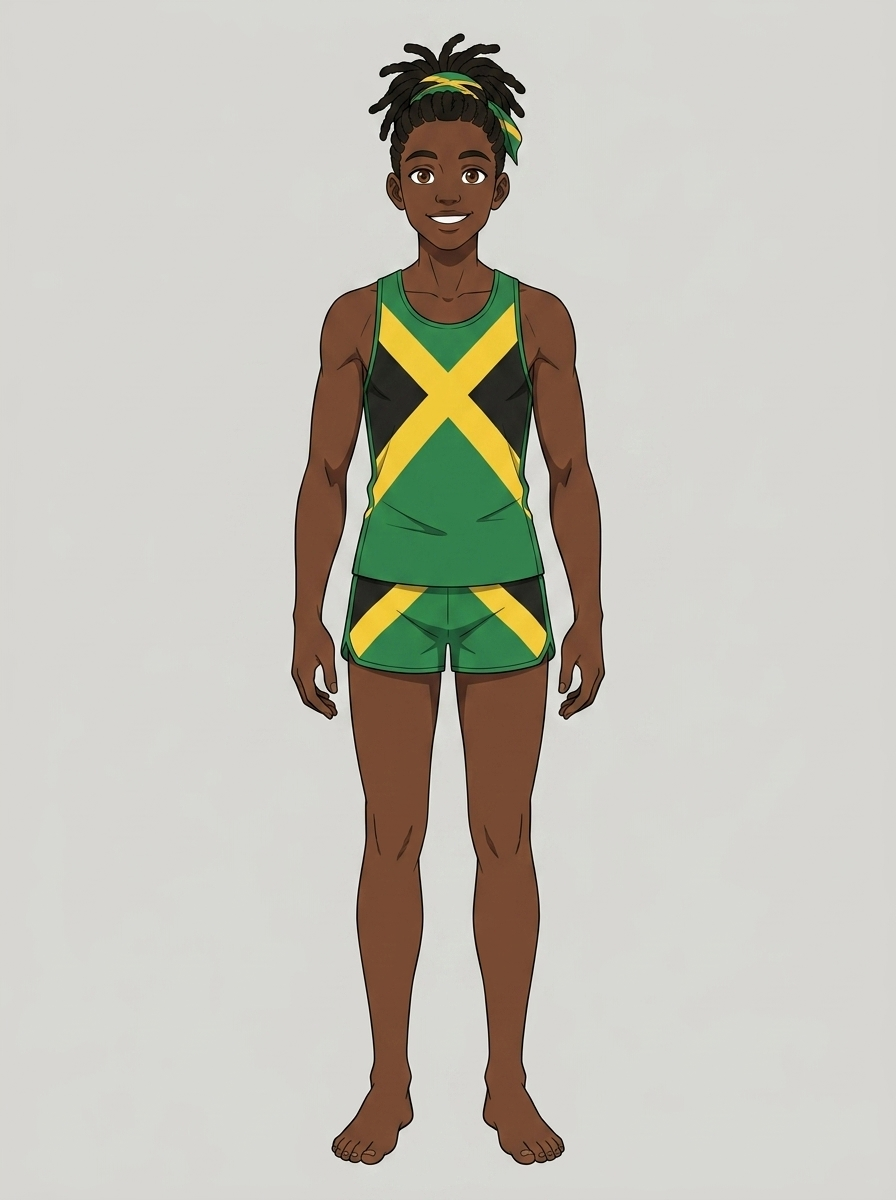
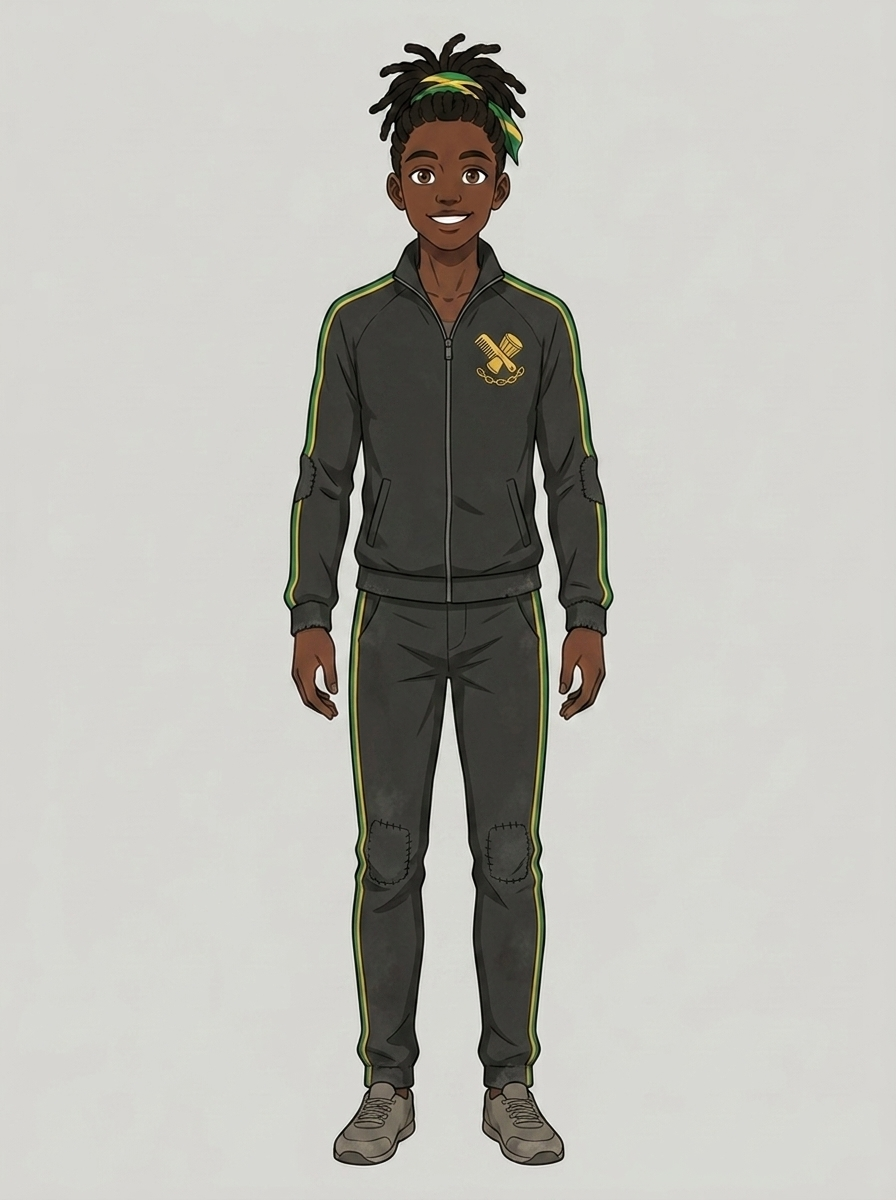
Kemar: retire the flag singlet for a Freewater House tracksuit
His racing kit was a literal Jamaican flag saltire - the only character in
the show dressed as a flag, next to a cast that otherwise wears believable
athletic wear with a small House crest. It read as costume, not uniform.

Canon already had the answer: the visdev briefs define the Freewater sigil
as a golden comb crossed over a drum above a broken chain, in green/gold/
black. The palette was never the problem; the flag print was.

New kit is a charcoal-black House tracksuit in the same grammar as Ren's
House Kurose blacks. Heritage carries as thin green-and-gold piping and the
sigil at the chest, plus his loc wrap - shown, never stated, the same
discipline used for Kai.

The wear is deliberate. Freewater has no Pillar and no institution behind
it, so their kit is mended and handed down; Ren's is issued and immaculate.
Standing side by side, that contrast is the recognition argument made
without a line of dialogue.

Verifier fix: a character can now be retired more than once. Kemar has two
retired elements and retired_element_id only held one, which correctly
failed the gate on kemar-02.png rather than passing silently.

diff --git a/docs/assets/undertow/qc/verify_assets.py b/docs/assets/undertow/qc/verify_assets.py
@@ -64,9 +64,13 @@ def verify(report=False):
     # Retired elements stay valid: an asset generated before a character's element
     # was rebuilt still traces to approved identity. Retiring an element does not
     # retroactively orphan the art it produced.
+    # A character can be rebuilt more than once, so retirements accumulate.
+    # Accept both the single field and the list form.
     valid_elements = {c["element_id"] for c in chars.values()}
-    valid_elements |= {c["retired_element_id"] for c in chars.values()
-                       if c.get("retired_element_id")}
+    for c in chars.values():
+        if c.get("retired_element_id"):
+            valid_elements.add(c["retired_element_id"])
+        valid_elements |= set(c.get("retired_element_ids", []))
 
     # Founding plates AND baseline references are identity sources, not derived art.
     plate_by_char = {k: v["approved_plate"].split("/")[-1] for k, v in chars.items()}
@@ -155,8 +159,10 @@ def verify(report=False):
         print("  CHARACTER ELEMENTS (identity locks):")
         for cid, c in chars.items():
             print(f"    {c['full_name']:<22} {c['element_id']}  {c['element_name']}")
-            if c.get("retired_element_id"):
-                print(f"    {'':<22} {c['retired_element_id']}  (retired — still valid for existing art)")
+            retired = ([c["retired_element_id"]] if c.get("retired_element_id") else []) \
+                      + list(c.get("retired_element_ids", []))
+            for r in retired:
+                print(f"    {'':<22} {r}  (retired — still valid for existing art)")
         print()
 
     for w in warnings:

diff --git a/docs/UNDERTOW-VISDEV-BRIEFS.md b/docs/UNDERTOW-VISDEV-BRIEFS.md
@@ -135,7 +135,17 @@ Deliverable per character: front/side/back turnaround, 4 expressions, surface ki
 - **Face/hair:** dark brown skin, short locs tied back for racing with a green-gold-black
   wrap; huge easy grin that drops, in serious moments, into a stillness that surprises
   people; eyes warm brown (awakened shift: river-gold, in water only).
-- **Wardrobe:** surface kit in Jamaica green/gold/black; deep kit: Freewater second-skin
+- **Wardrobe:** charcoal-black Freewater House tracksuit — thin green-and-gold piping
+  down sleeves and legs, small gold House sigil at the left chest, visibly older and
+  hand-repaired. Deep kit: Freewater second-skin with the same sigil.
+  **No flag, no saltire, no block colour panels.** The Jamaican-flag racing singlet was
+  retired 2026-07-31: it read as costume beside a cast that otherwise wears believable
+  athletic wear with a small House crest. Heritage now shows through palette, sigil and
+  his loc wrap — the same "shown, never stated" discipline used for Kai.
+  The mending is the point. Freewater has no Pillar and no institution behind it, so the
+  kit is handed down rather than issued; set beside Ren's immaculate new House Kurose
+  blacks, the contrast *is* the recognition argument, made without a line of dialogue.
+- **Retired wardrobe:** surface kit in Jamaica green/gold/black flag print
   woven green-gold-black with the House sigil (golden comb crossed over a drum, above a
   broken chain) between the shoulder blades. Shell-and-bead wrist cord from Port Royal.
   *[cultural specifics built with Jamaican tradition-keepers before anything ships]*
